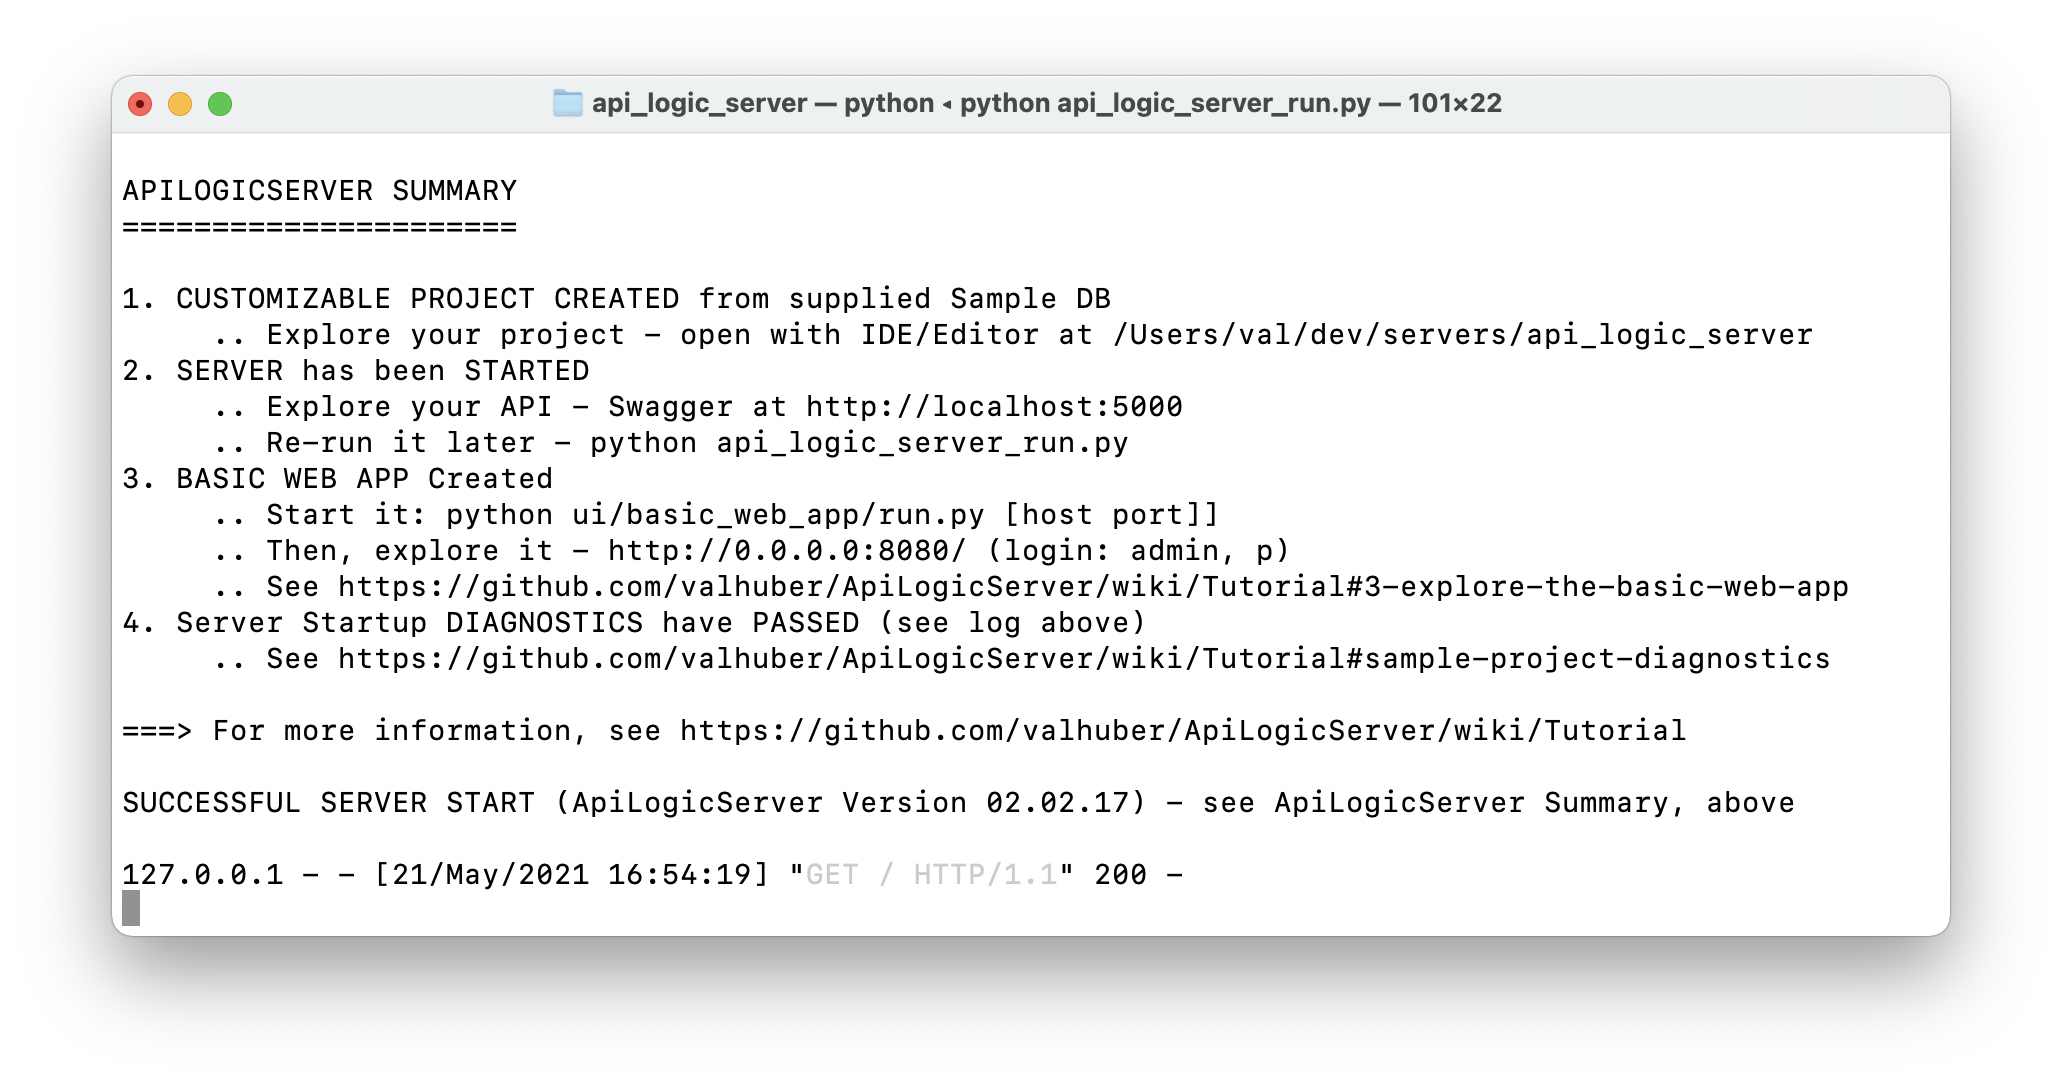
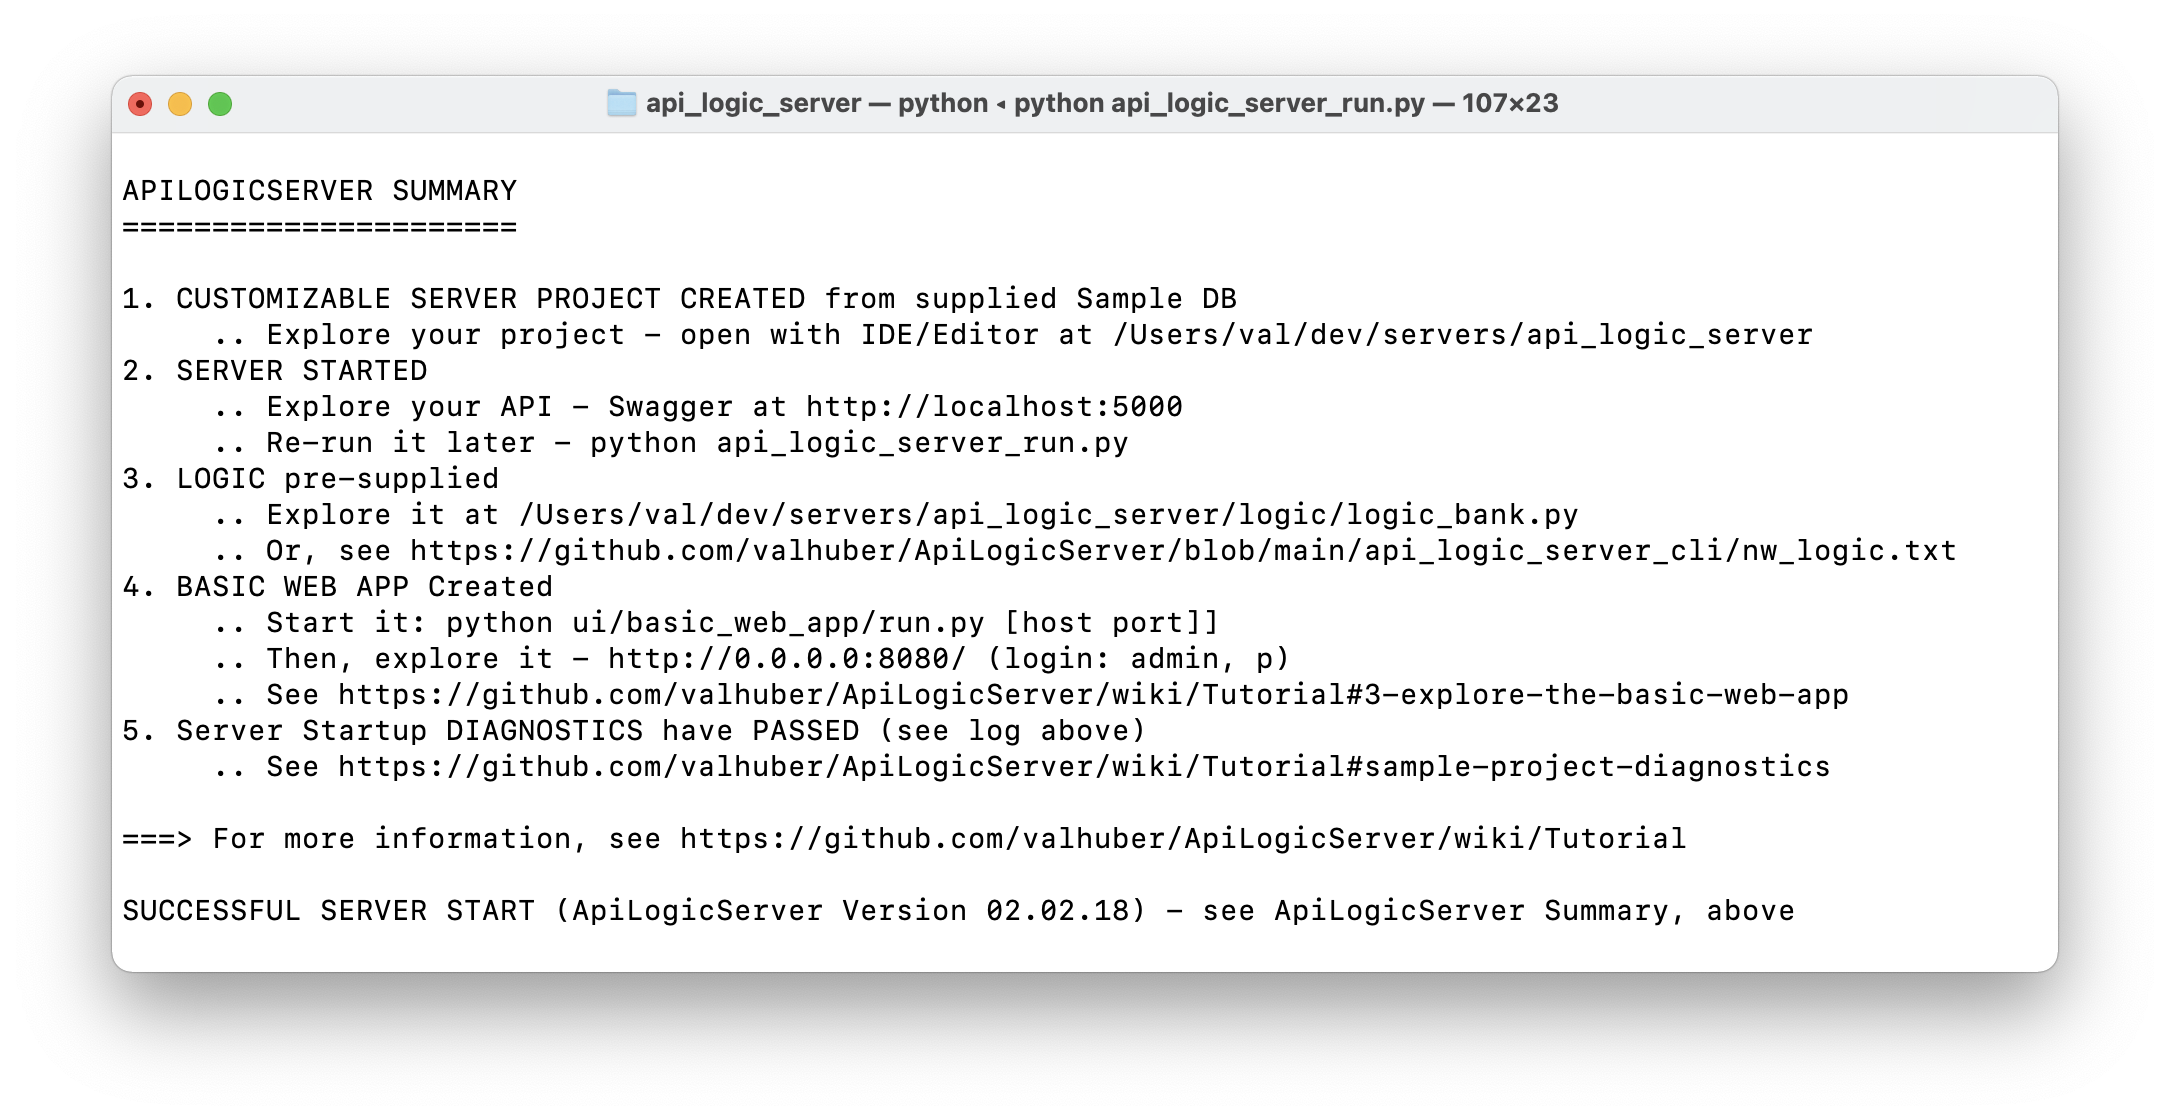
05/21/2021 - 02.02.18: SAFRS Patch Error Fix, model gen for Posting w/o autoIncr, Startup Tests

diff --git a/api_logic_server_cli/nw_server_startup_test.py b/api_logic_server_cli/nw_server_startup_test.py
@@ -175,11 +175,14 @@ def server_tests(host, port, version):
             f'2. SERVER STARTED\n'
             f'     .. Explore your API - Swagger at http://{host}:{port}\n'
             f'     .. Re-run it later - python api_logic_server_run.py\n'
-            f'3. BASIC WEB APP Created\n'
+            f'3. LOGIC pre-supplied\n'
+            f'     .. Explore it at {get_project_dir()}/logic/logic_bank.py\n'
+            f'     .. Or, see https://github.com/valhuber/ApiLogicServer/blob/main/api_logic_server_cli/nw_logic.txt\n'
+            f'4. BASIC WEB APP Created\n'
             f'     .. Start it: python ui/basic_web_app/run.py [host port]]\n'
             f'     .. Then, explore it - http://0.0.0.0:8080/ (login: admin, p)\n'
             f'     .. See https://github.com/valhuber/ApiLogicServer/wiki/Tutorial#3-explore-the-basic-web-app\n'
-            f'4. Server Startup DIAGNOSTICS have PASSED (see log above)\n'
+            f'5. Server Startup DIAGNOSTICS have PASSED (see log above)\n'
             f'     .. See https://github.com/valhuber/ApiLogicServer/wiki/Tutorial#sample-project-diagnostics\n'
             f'\n'
             f'===> For more information, see https://github.com/valhuber/ApiLogicServer/wiki/Tutorial\n'

diff --git a/api_logic_server_cli/cli.py b/api_logic_server_cli/cli.py
@@ -34,7 +34,7 @@ import inspect
 import importlib
 import click
 
-__version__ = "02.02.17"
+__version__ = "02.02.18"
 default_db = "<default -- nw.sqlite>"
 
 #  MetaData = NewType('MetaData', object)
@@ -1289,7 +1289,7 @@ def version(ctx):
     click.echo(
         click.style(
             f'Recent Changes:\n'
-            "\t05/21/2021 - 02.02.17: SAFRS Patch Error Fix, model gen for Posting w/o autoIncr, Startup Tests\n"
+            "\t05/21/2021 - 02.02.18: SAFRS Patch Error Fix, model gen for Posting w/o autoIncr, Startup Tests\n"
             "\t05/10/2021 - 02.02.09: Extended Builder fix - no-arg TVFs\n"
             "\t05/08/2021 - 02.02.08: Server Startup Option\n"
             "\t05/03/2021 - 02.01.05: --extended_builder - bypass Scalar Value Functions\n"
